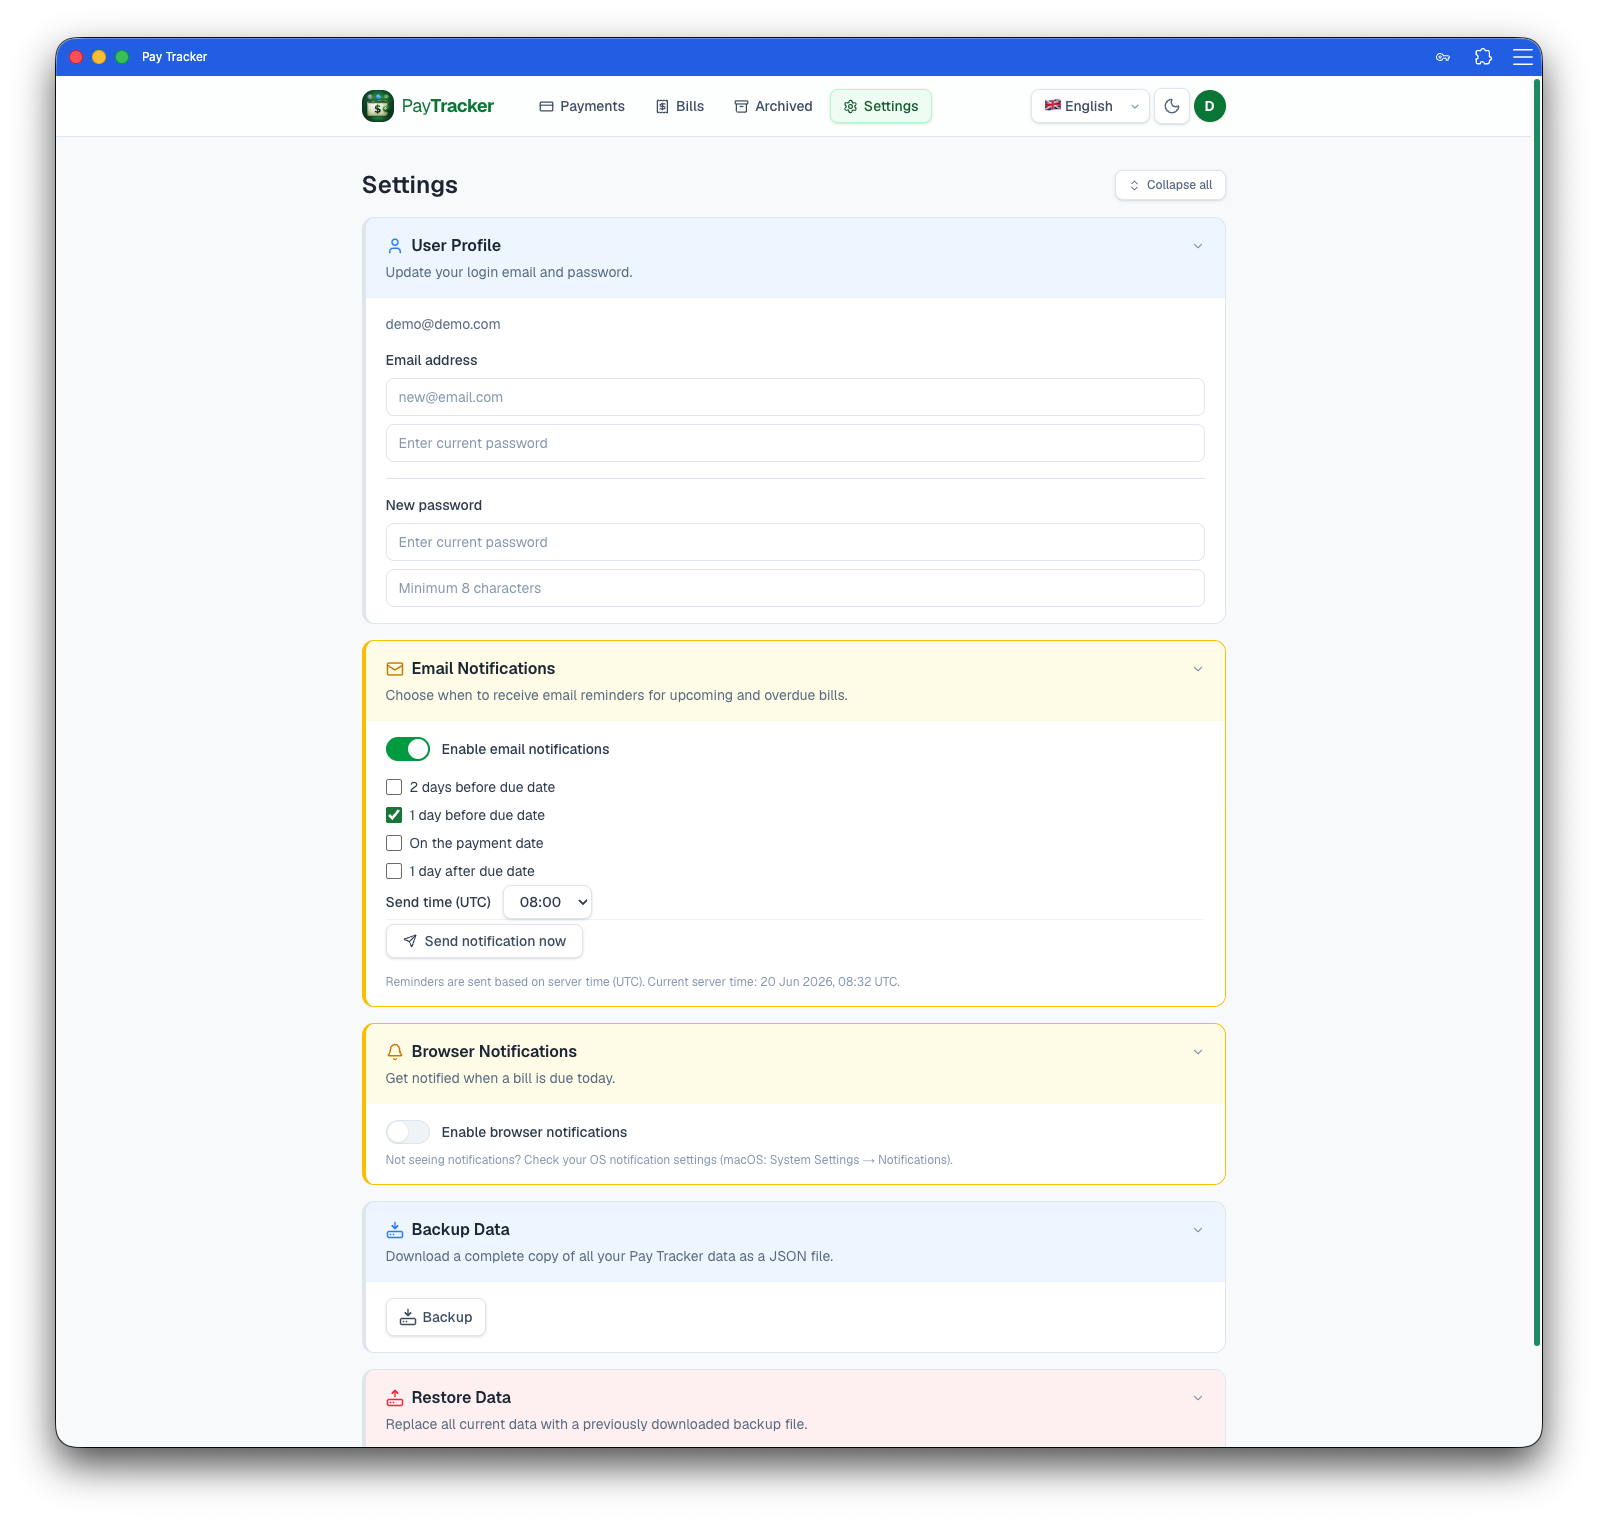
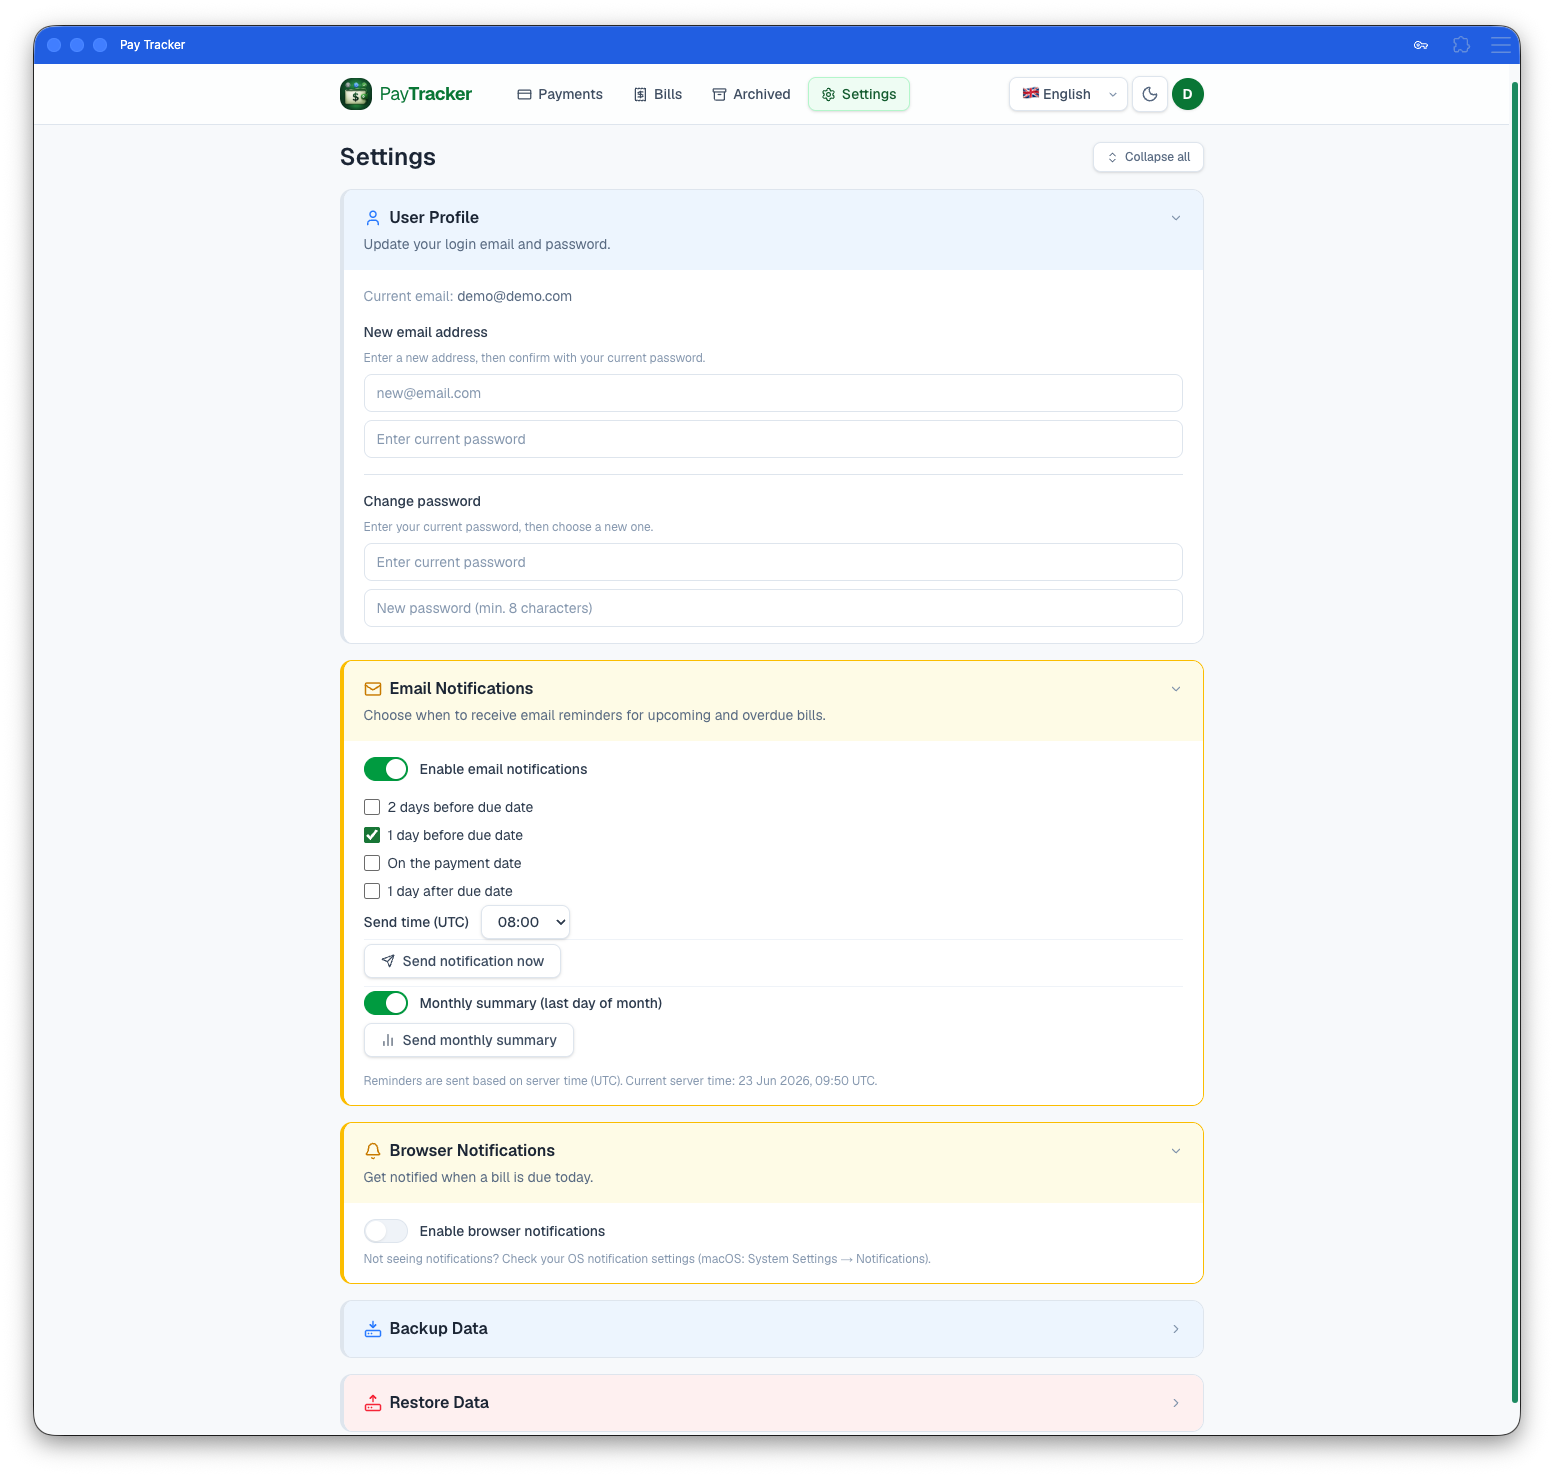
chore(docs): documentation adjustments

Changed region(s): [[0.0, 0.0, 0.9884, 0.9966], [0.556, 0.8409, 0.5869, 0.872], [0.4015, 0.218, 0.4324, 0.2492]]

diff --git a/context/foundation/roadmap.md b/context/foundation/roadmap.md
@@ -54,6 +54,7 @@ slice only matters if this loop works.
 | S-13 | settings-page                | manage user profile, email/browser notification preferences, and backup/restore from a dedicated Settings page | S-10, S-12 | FR-001, FR-011, FR-012, FR-013, FR-018    | done     |
 | S-14 | standalone-electron-app      | install Pay Tracker as a native desktop app (macOS, Windows, Linux) — no Docker, no browser, no server setup required | S-13 | NFR deploy                               | new      |
 | S-15 | category-enum-grouping       | see bills and payments grouped by a predefined category (Housing, Utilities, Subscriptions, etc.); category is required on every bill | S-02, S-07 | FR-003, FR-005                  | done     |
+| S-16 | monthly-summary-email        | receive a full month-end summary email (paid vs. missed, totals); toggle in Settings; on-demand "Send now" button | S-10, S-13 | FR-012 (extension)              | done     |
 
 ## Streams
 
@@ -360,3 +361,4 @@ Foundations below assume these are present and do NOT re-scaffold them.
 - **S-10: user receives an email reminder N days before a bill's due date when the instance is still unpaid; the lead time is configurable per template or globally.** — Archived 2026-06-16 → `context/archive/2026-06-16-email-reminders/`. Lesson: —.
 - **S-13: user can manage their account (email, password), configure email reminder timing (2 days before / 1 day before / on day / 1 day after), enable/disable browser notifications, and trigger backup and restore — all from a single dedicated Settings page accessible via a gear icon in the nav header. The crowded header icon buttons are removed.** — Archived 2026-06-16 → `context/archive/2026-06-16-settings-page/`. Lesson: —.
 - **S-15: user sees bills and payments grouped under predefined category headers (Housing, Utilities, Insurance, Subscriptions, Entertainment, Transport, Healthcare, Education, Other); category is a required field on every bill template, selected from a fixed `<select>` instead of a free-text input.** — Archived 2026-06-19 → `context/archive/2026-06-19-category-enum-grouping/`. Lesson: —.
+- **S-16: user receives a full month-end summary email showing what was paid (amount due vs. paid, date) and what was missed/overdue, with totals; toggle and on-demand send button in Settings → Email Notifications.** — Archived 2026-06-23 → `context/archive/2026-06-23-monthly-summary-email/`. Lesson: —.

diff --git a/README.md b/README.md
@@ -22,6 +22,7 @@ No third-party data sharing. No subscription. Runs locally with Docker Compose o
 - **Category grouping** — bills and payments are grouped under predefined category headers (Housing, Utilities, Insurance, Subscriptions, Entertainment, Transport, Healthcare, Education, Other). Category is required on every bill.
 - **Payment tracking** — view upcoming, overdue, and paid bills for any month, grouped by category. Mark as paid with an optional amount override and note. Revert if you made a mistake.
 - **Email reminders** — optional. Configure SMTP credentials and a send time (30-minute precision) and the app emails you before or after each bill's due date.
+- **Monthly summary email** — optional. On the last day of each month, receive a full summary of what was paid (amount due vs. paid, date) and what was missed, with totals. Toggle it in Settings → Email Notifications. A "Send monthly summary now" button lets you request the current month's snapshot on demand.
 - **Email sent indicator** — each payment row shows an `@` icon: gray if no reminder has been sent, amber if one was sent. Click it to see the exact timestamp.
 - **Export & backup** — download payment history as `.xlsx` (one sheet per month) or a full JSON backup. Restore from backup at any time.
 - **Multilingual** — English, Polish, German. Language is saved per account.